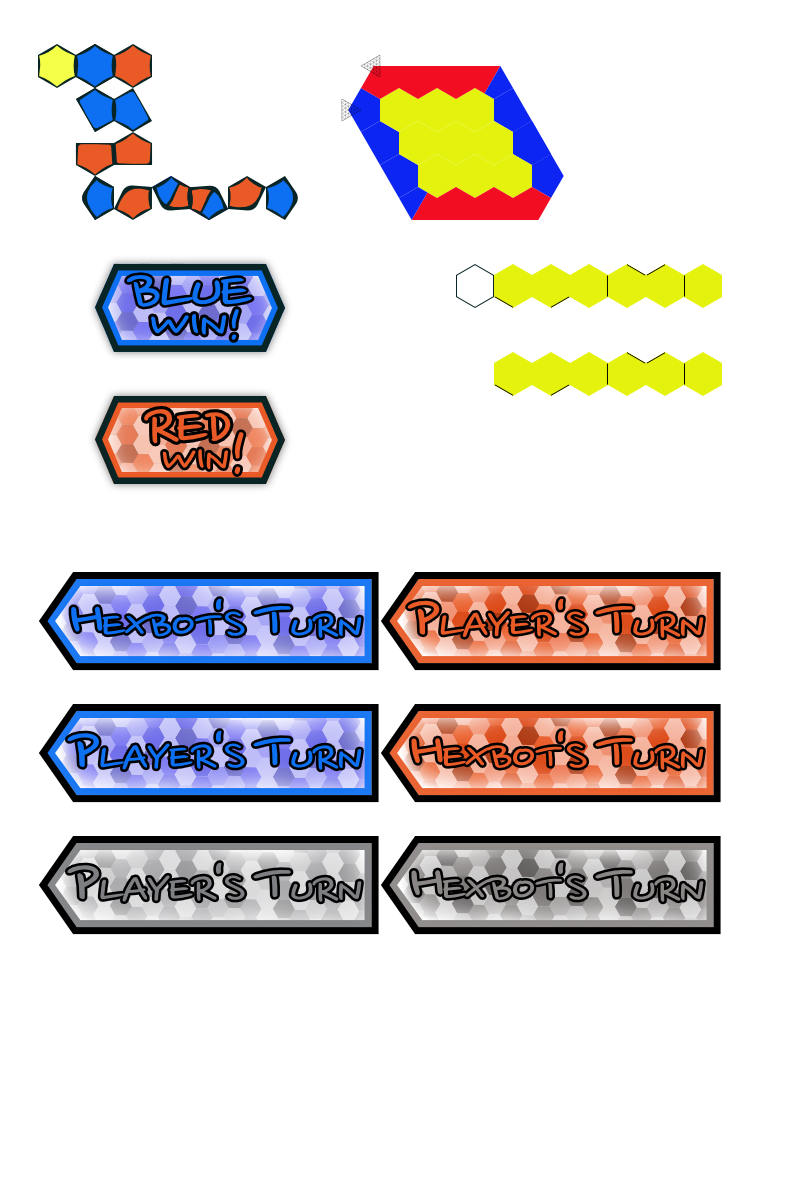
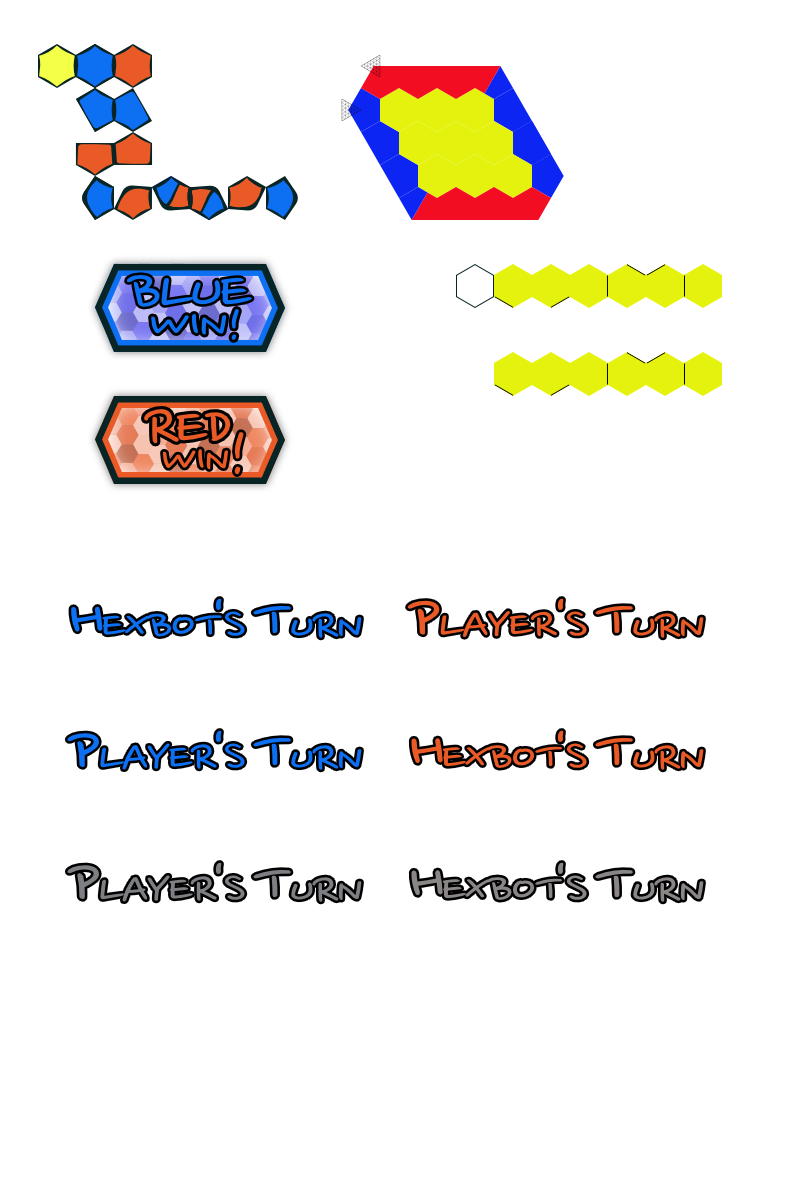
Tweak turn marker

Changed region(s): [[0.0312, 0.4625, 0.9062, 0.8017]]

diff --git a/js/components/Player.jsx b/js/components/Player.jsx
@@ -3,7 +3,11 @@ import { COLOUR_RED, COLOUR_BLUE }  from '../constants/Colours.js';
 
 export default class Player extends Component {
   render () {
-    const {current, player, index} = this.props;
+    const {current, player} = this.props;
+
+    if (current === false) {
+      return <span />
+    }
 
     const colour = {
       [COLOUR_RED]: current ? 'red' : 'grey',
@@ -12,8 +16,7 @@ export default class Player extends Component {
 
     const style = {
       position: 'absolute',
-      right: `-200px`,
-      top: 90 * index,
+      right: `-100px`,
       width: '256px',
       height: '75px'
     };
